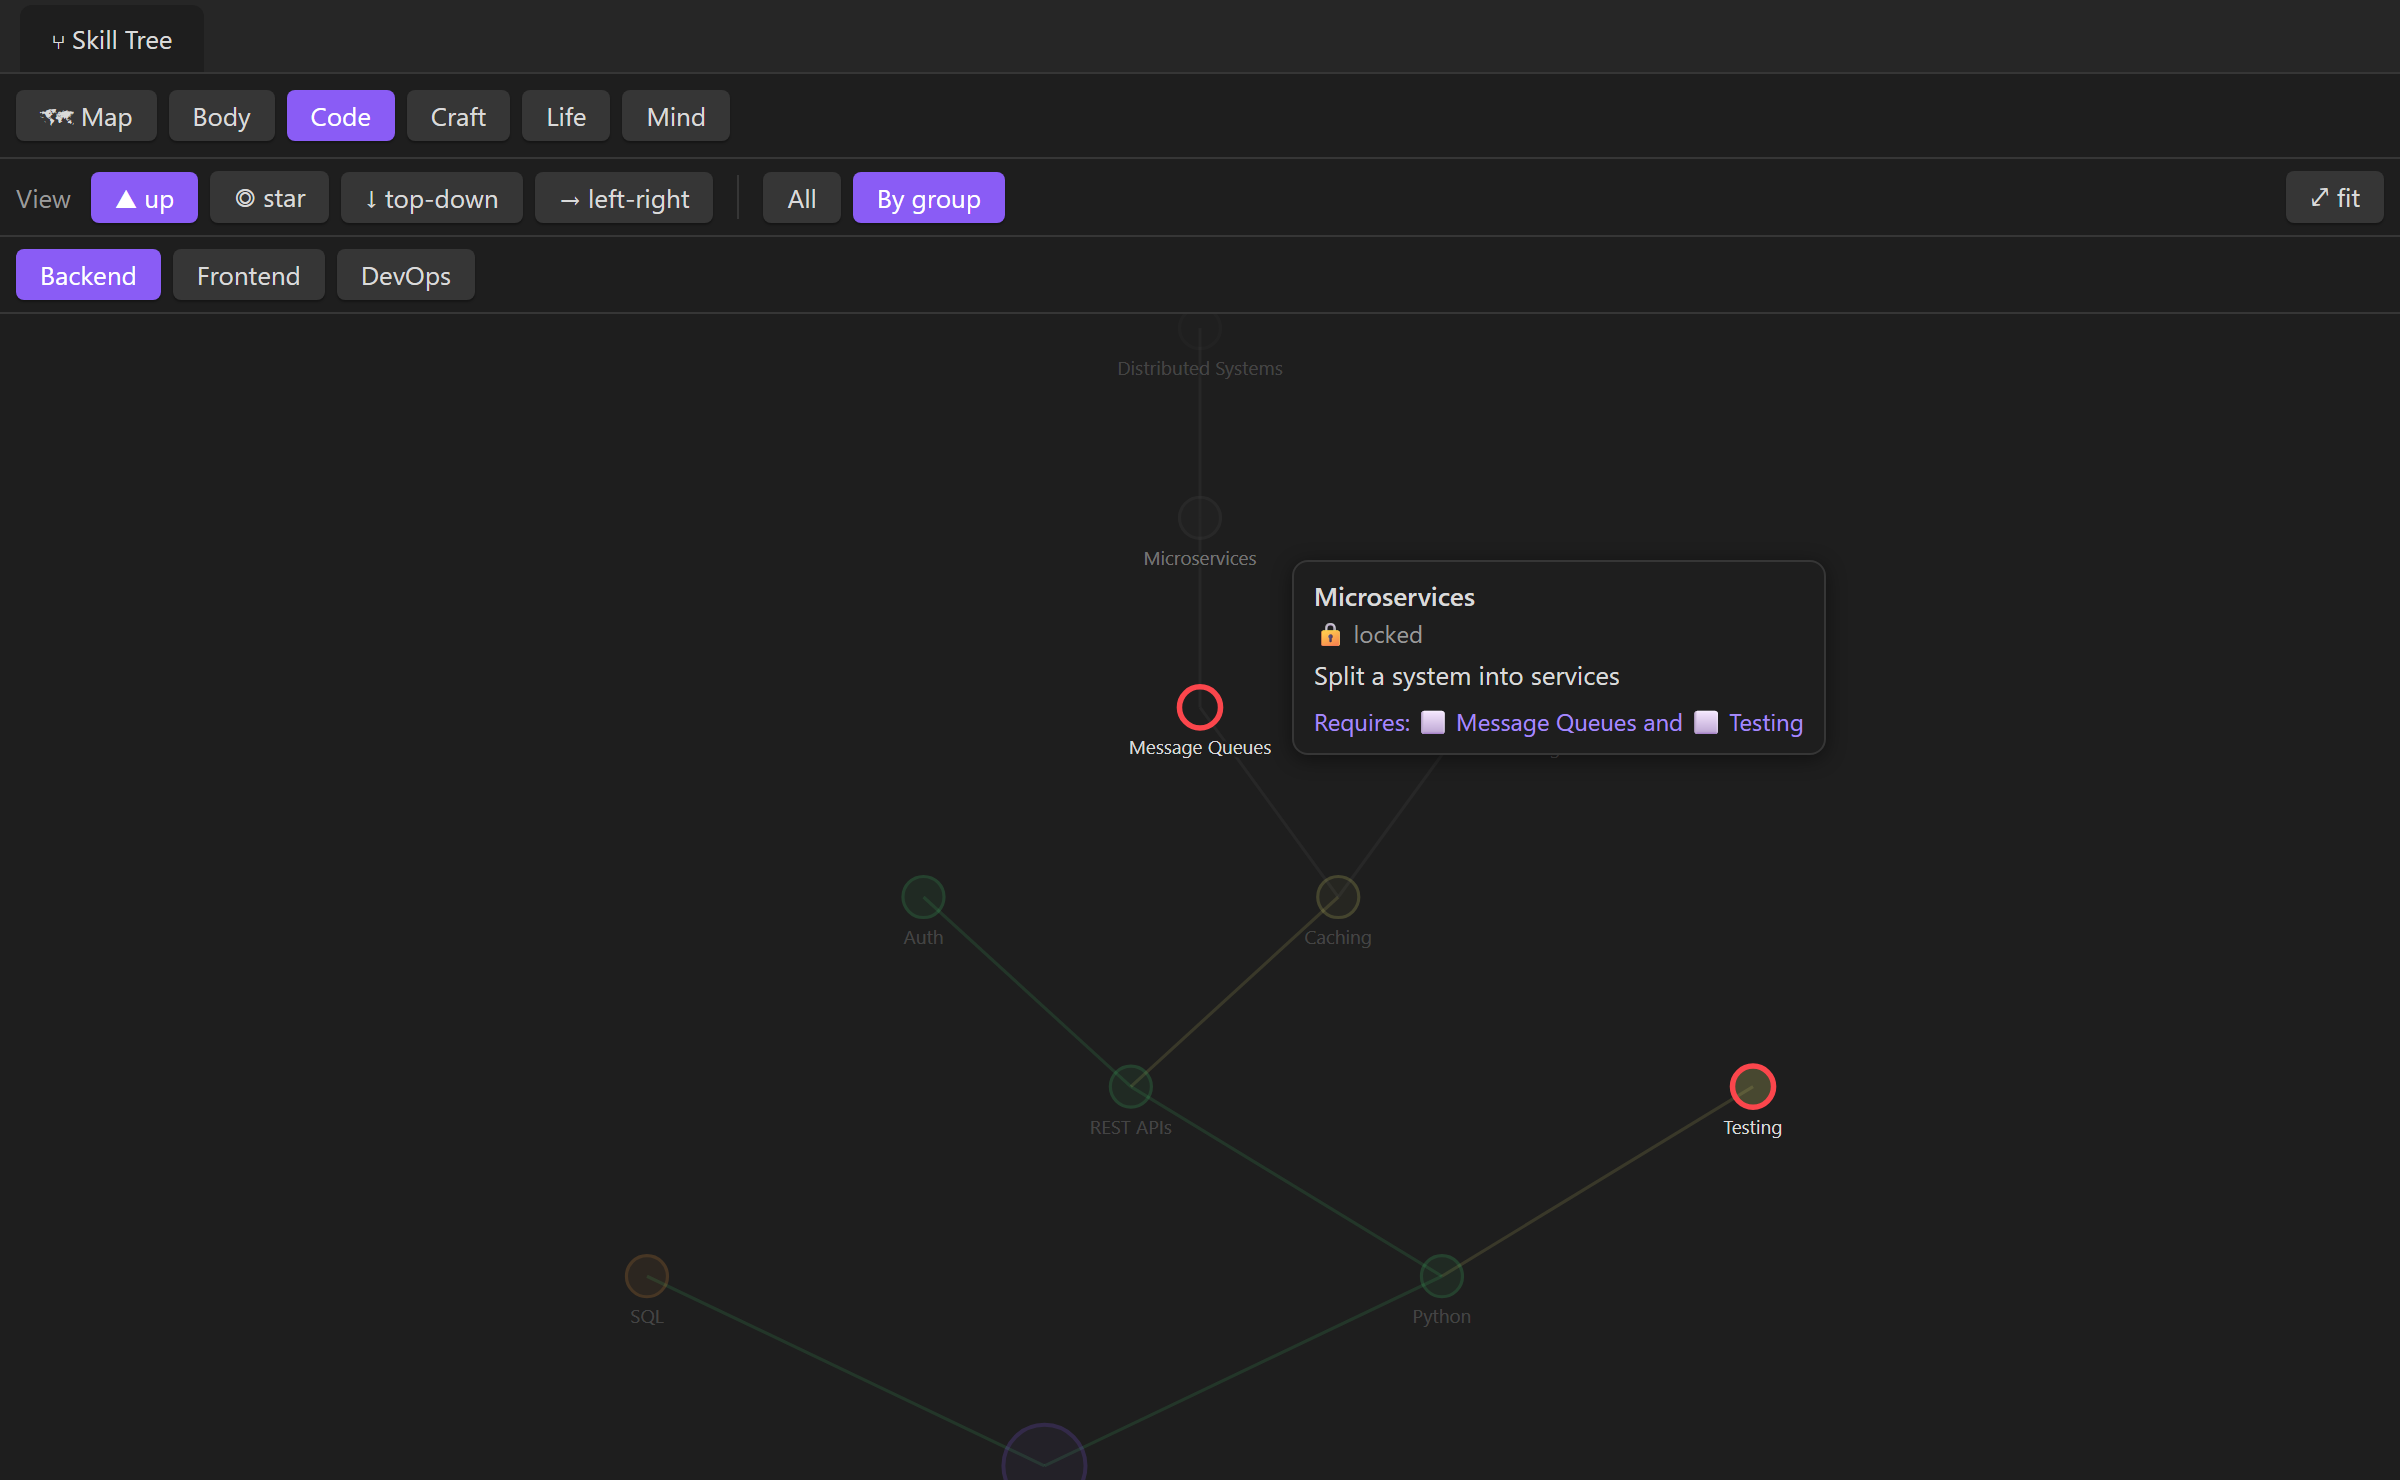
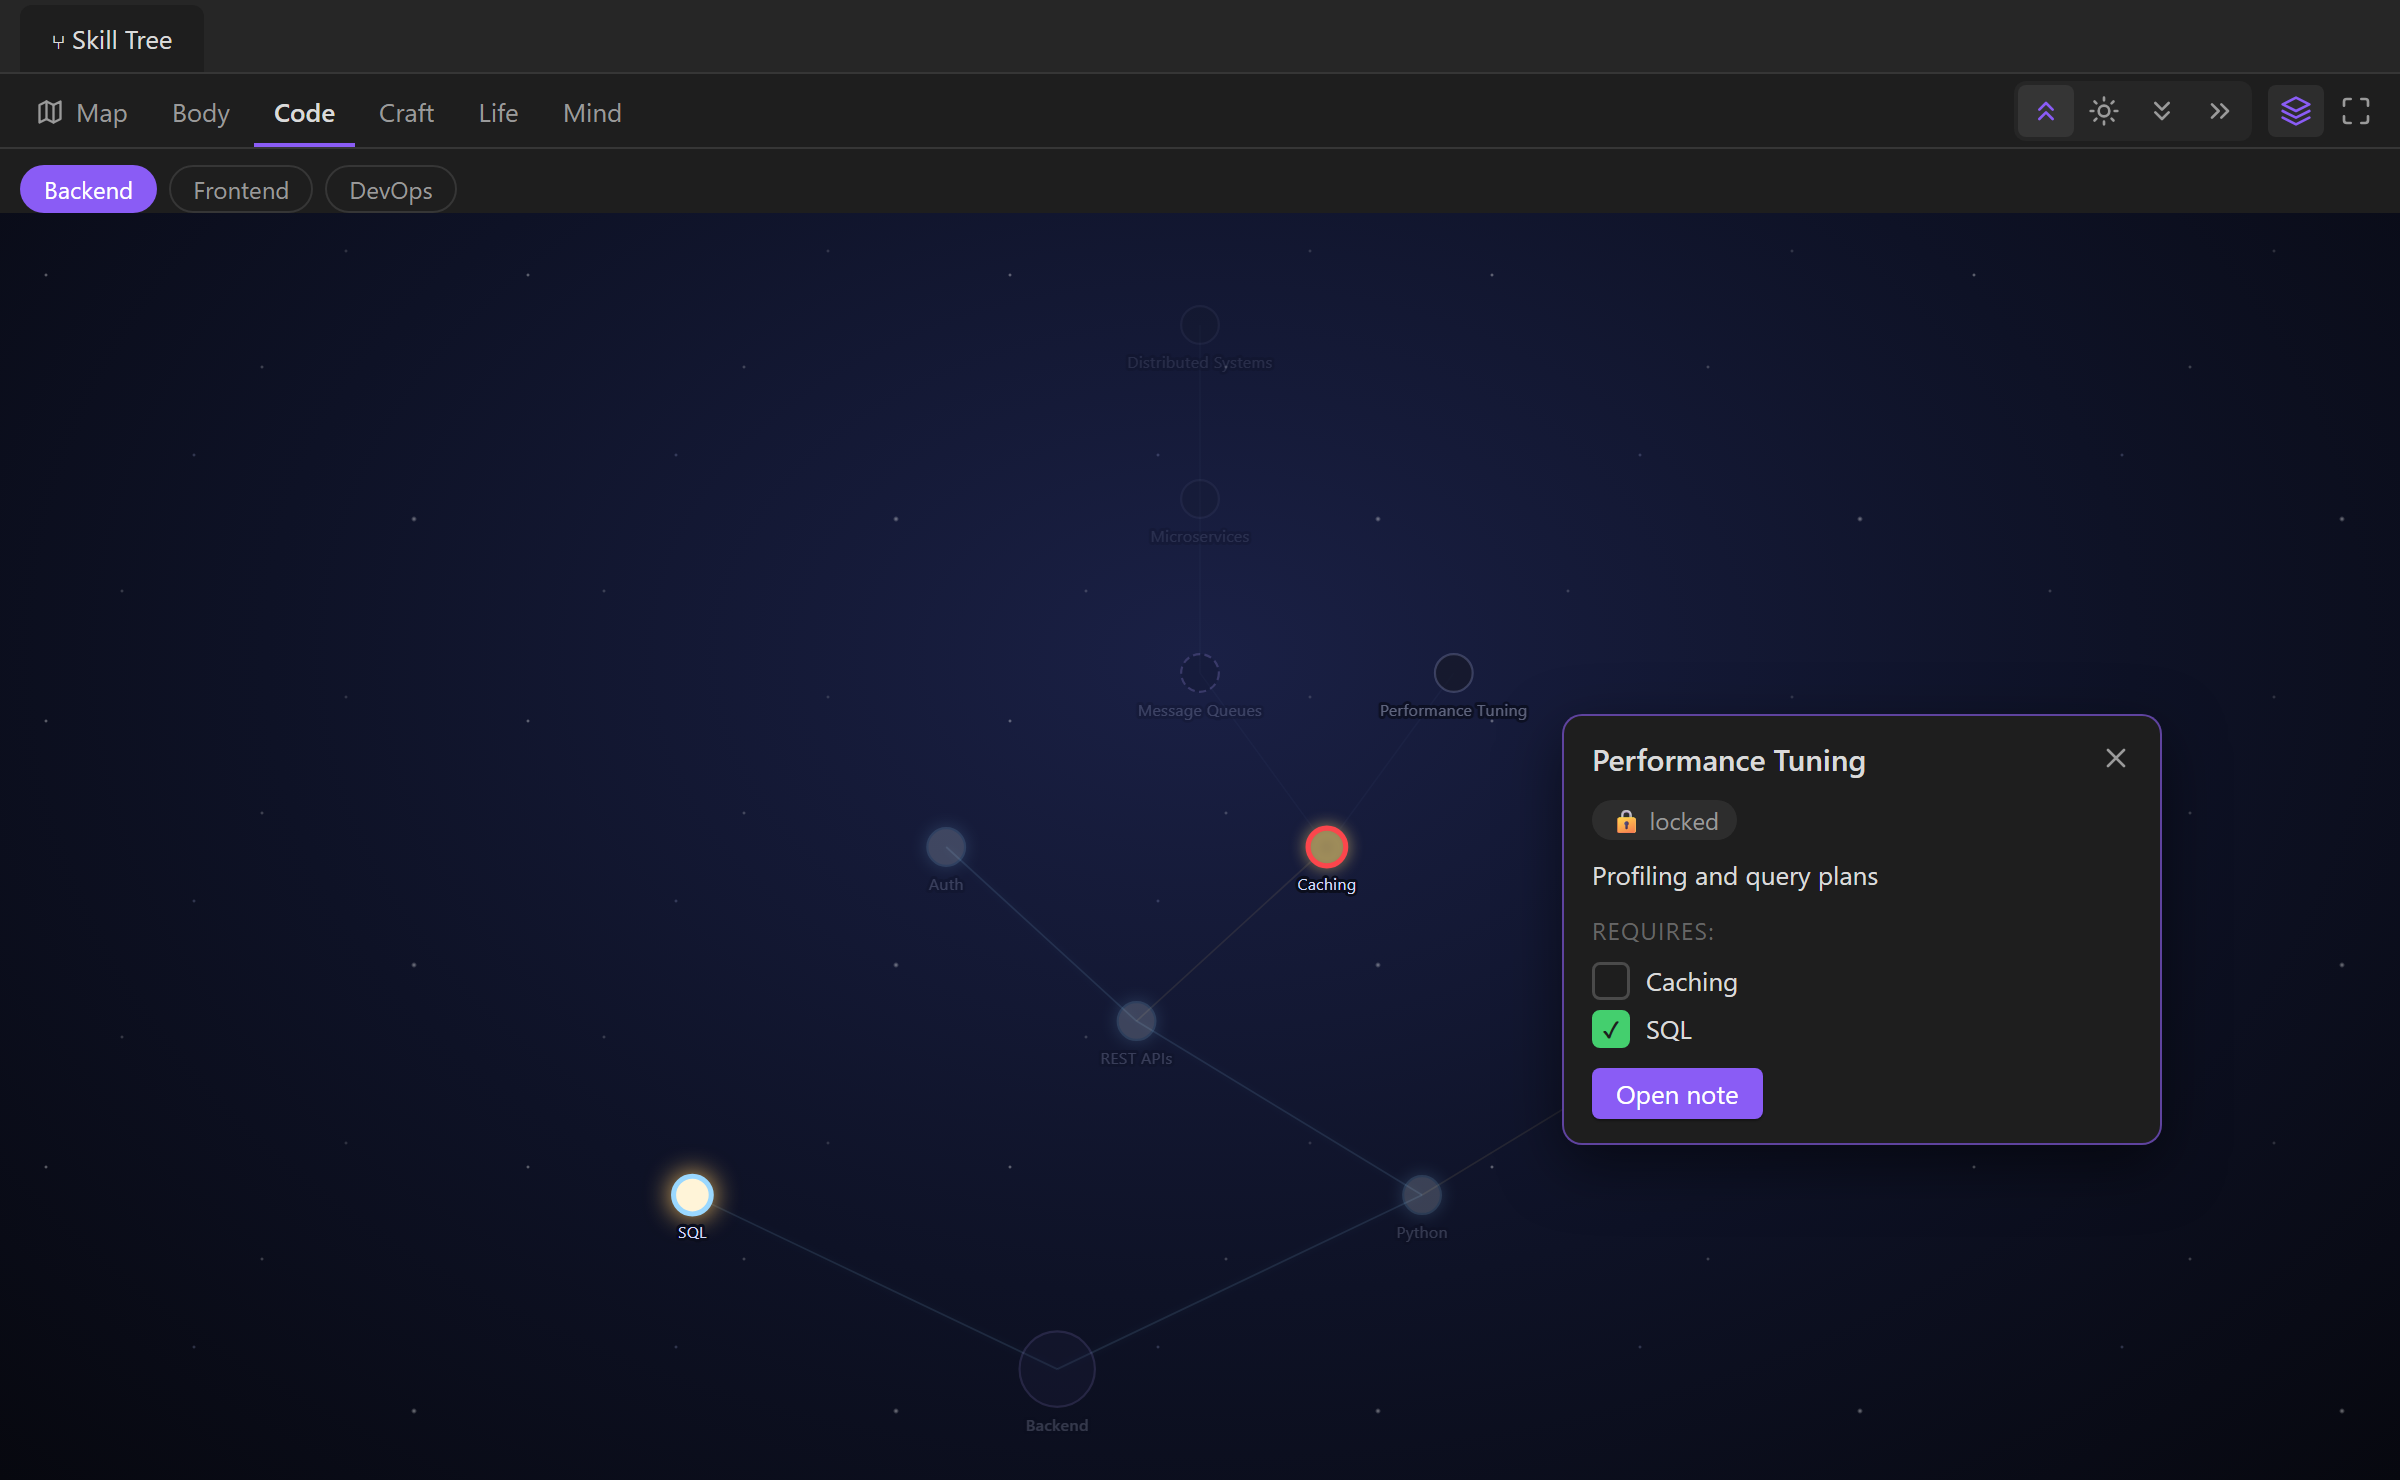
README: new screenshots and features for the 0.2.0 UI

diff --git a/README.md b/README.md
@@ -4,22 +4,24 @@ See yourself as an RPG character. Skill Tree turns plain checklists in your note
 
 There is no XP, no levels and no scores. Real progress is not a number; the tree only shows *where you are* and *what is next*.
 
-![Main map with all branches, constellations and legendary skills](images/map.png)
+![Main map in the Night sky look](images/map.png)
 
-| A branch tree | Hover shows what a skill requires |
+| A branch tree | Click a skill to pin its card |
 | --- | --- |
-| ![Code branch as an upward tree](images/tree.png) | ![Tooltip with requirements highlighted](images/hover.png) |
+| ![Code branch as an upward tree](images/tree.png) | ![Pinned card with requirements highlighted](images/hover.png) |
 
-![Body branch in star layout](images/star.png)
+![Whole Code branch left to right, with boxes instead of stars, Soft look](images/box.png)
 
 ## Features
 
 - **Main map**: every branch, its constellations and cross-branch *legendary* skills on one screen. Brighter constellations = more skills known.
 - **Branch trees**: one tree per branch, either all at once or one constellation at a time.
-- **Four layouts** shared by the map and the trees: ▲ up (Skyrim-like), ◎ star, ↓ top-down, → left-right.
+- **Four layouts** shared by the map and the trees: ▲ up (Skyrim-like), ☀ star, ↓ top-down, → left-right.
+- **Three looks**: Classic, Night sky and Soft. **Two node shapes**: stars with a label or boxes with the text inside. Every combination works in every layout.
 - **Prerequisites without spaghetti**: a skill needs *all* (`A & B`) or *any* (`A | B`) of other skills. Hover a skill to highlight what it requires.
+- **Skill card**: hover shows status, description, progress and requirements; click pins the card, with a button to open the note.
 - **Available skills glow** when their requirements are met.
-- Click any node to open the note at that line. Pan by dragging, zoom with the wheel.
+- Ctrl/Cmd+click opens the note at that line. Pan by dragging, zoom with the wheel.
 - Remembers the last opened tree, layout and constellation.
 - English and Russian interface (follows Obsidian's language).
 
@@ -113,10 +115,12 @@ Top-level checkboxes are legendary skills. Requirements are looked up across all
 
 - **Skills folder** — where branches live (default `Skills`).
 - **Map file** — the map note inside that folder (default `Map.md`).
+- **Look** — Classic, Night sky or Soft.
+- **Nodes** — stars with a label, or boxes with the text inside.
 
 ## Installation
 
-Until the plugin is in the community list, install it with [BRAT](https://github.com/TfTHacker/obsidian42-brat) or manually: download `main.js`, `manifest.json` and `styles.css` from the latest release into `<vault>/.obsidian/plugins/skill-tree/`, then enable it in **Settings → Community plugins**.
+Install it from [community.obsidian.md](https://community.obsidian.md/plugins/skill-tree) or search for **Skill Tree** in **Settings → Community plugins → Browse**. Manual install: download `main.js`, `manifest.json` and `styles.css` from the latest release into `<vault>/.obsidian/plugins/skill-tree/`, then enable it in **Settings → Community plugins**.
 
 ## License
 
